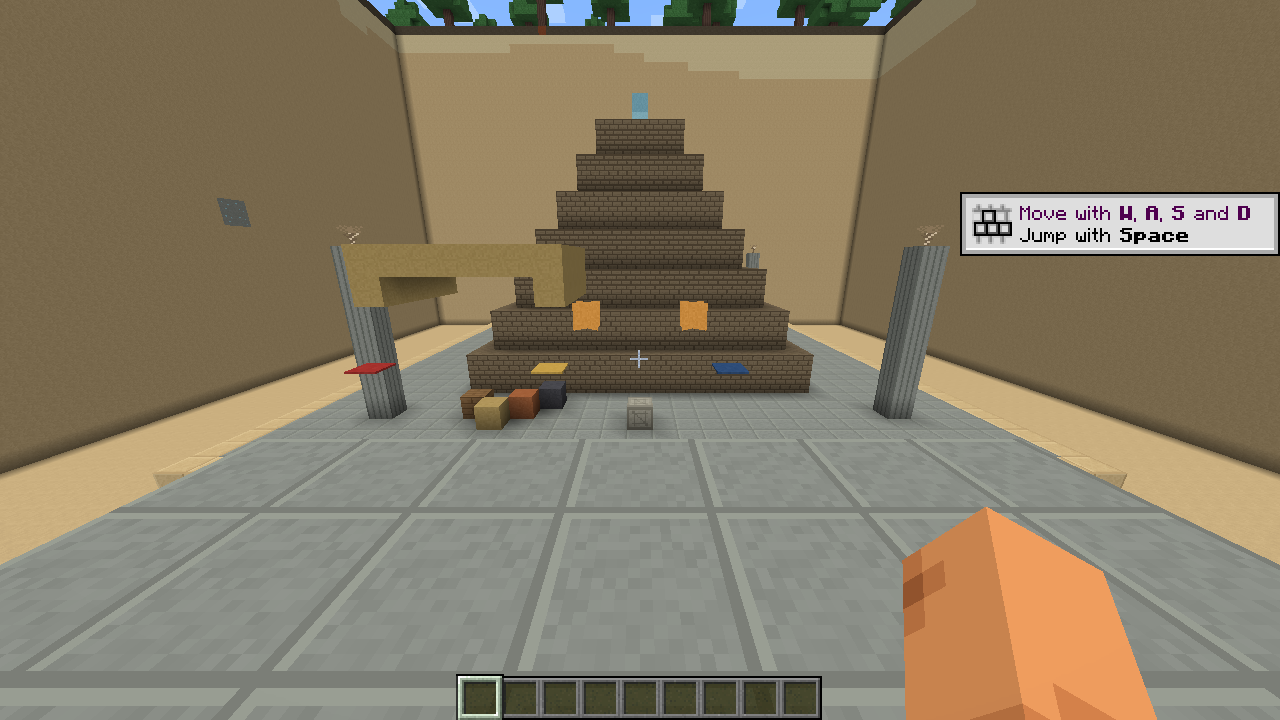
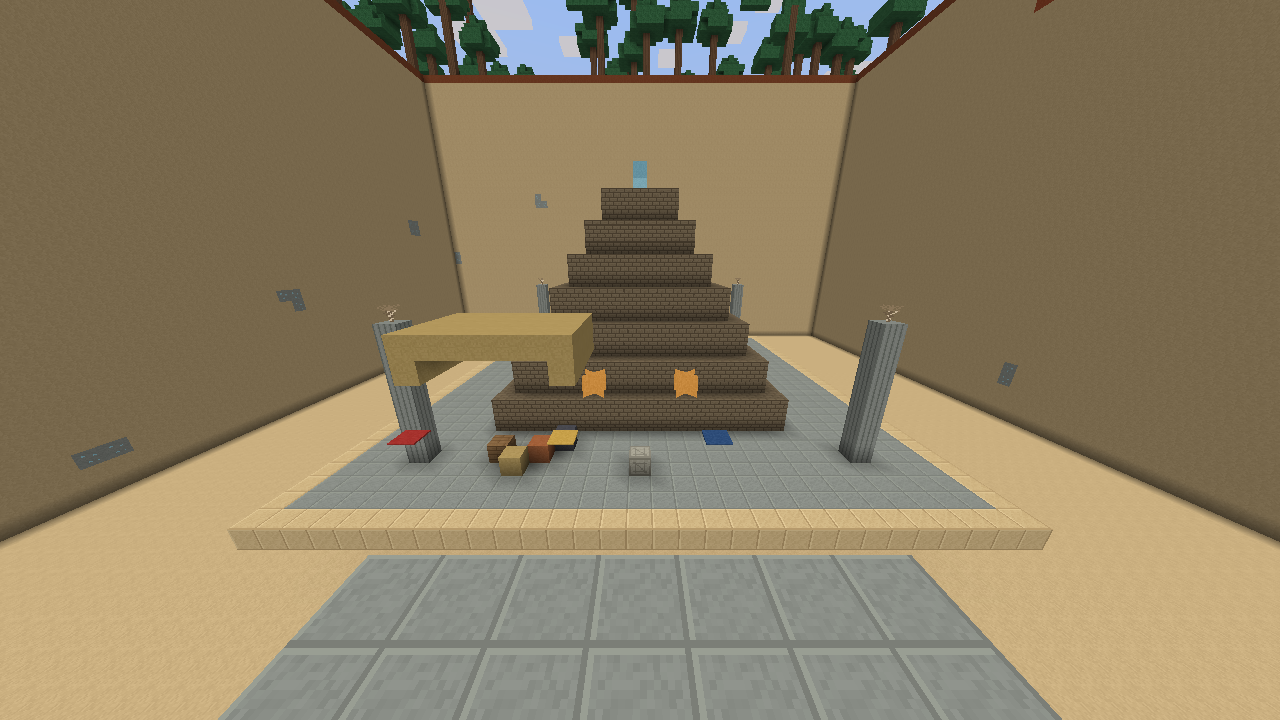
ci(captures): studio flottant a y=200 (fin des parois de terre) et cadrage serre

diff --git a/tools/dev/captures/captures.py b/tools/dev/captures/captures.py
@@ -46,118 +46,124 @@ def cube(x0, y0, z0, x1, y1, z1, nom):
     return [f"fill {x0} {y0} {z0} {x1} {y1} {z1} cambocraft:{nom}"]
 
 
+# Altitude du studio flottant : au-dessus du terrain naturel de cambodia (le monde
+# monte jusqu'a y=319), ce qui supprime les parois de terre qui encombraient le fond.
+Y = 200
+
+
 def scene_portail():
     c = []
-    c += cube(-9, 59, -9, 9, 59, 9, "pierre_du_lotus_polie")
-    for cote in (
-        f"fill -10 59 -10 10 59 -10 cambocraft:pierre_du_lotus_sculptee",
-        f"fill -10 59 10 10 59 10 cambocraft:pierre_du_lotus_sculptee",
-        f"fill -10 59 -10 -10 59 10 cambocraft:pierre_du_lotus_sculptee",
-        f"fill 10 59 -10 10 59 10 cambocraft:pierre_du_lotus_sculptee",
-    ):
-        c += [cote]
-    # Cadre 3x3 en anneau : le coeur occupe le centre, donc on ne pose pas de cadre
-    # sous lui (sinon il le masque completement).
+    # Terrasse : 19x19 de pierre de lotus polie, bordee de pierre sculptee.
+    c += cube(-9, Y, -9, 9, Y, 9, "pierre_du_lotus_polie")
+    c += [f"fill -10 {Y} -10 10 {Y} -10 cambocraft:pierre_du_lotus_sculptee",
+          f"fill -10 {Y} 10 10 {Y} 10 cambocraft:pierre_du_lotus_sculptee",
+          f"fill -10 {Y} -10 -10 {Y} 10 cambocraft:pierre_du_lotus_sculptee",
+          f"fill 10 {Y} -10 10 {Y} 10 cambocraft:pierre_du_lotus_sculptee"]
+    # Portail : cadre 3x3 en anneau (le coeur occupe le centre) surmonte de montants.
     for dx in (-1, 0, 1):
         for dz in (-1, 0, 1):
-            if (dx, dz) == (0, 0):
-                continue
-            c += [bloc(dx, 60, dz, "cadre_du_portail")]
-    c += [bloc(0, 60, 0, "coeur_du_portail")]
-    # Murets de cadre sur les cotes : signale le portail de loin.
+            if (dx, dz) != (0, 0):
+                c += [bloc(dx, Y + 1, dz, "cadre_du_portail")]
+    c += [bloc(0, Y + 1, 0, "coeur_du_portail")]
     for dx, dz in ((-2, -2), (2, -2), (-2, 2), (2, 2)):
-        c += [f"fill {dx} 60 {dz} {dx} 62 {dz} cambocraft:cadre_du_portail"]
+        c += [f"fill {dx} {Y+1} {dz} {dx} {Y+3} {dz} cambocraft:cadre_du_portail"]
+    # Piliers d'angle de lotus couronnes de cristaux.
     for dx, dz in ((-3, -3), (3, -3), (-3, 3), (3, 3)):
-        c += [f"fill {dx} 60 {dz} {dx} 63 {dz} cambocraft:pilier_de_lotus"]
-        c += [bloc(dx, 64, dz, "cristal_de_lotus")]
+        c += [f"fill {dx} {Y+1} {dz} {dx} {Y+4} {dz} cambocraft:pilier_de_lotus"]
+        c += [bloc(dx, Y + 5, dz, "cristal_de_lotus")]
+    # Parterre de lotus, rangee d'hibiscus, lanternes, autel et teleporteur.
     for dx, dz in ((0, -4), (0, 4), (-4, 0), (4, 0), (-5, -5), (5, 5), (-5, 5), (5, -5)):
-        c += [bloc(dx, 60, dz, "lotus_rose" if (dx + dz) % 2 == 0 else "lotus_blanc")]
+        c += [bloc(dx, Y + 1, dz, "lotus_rose" if (dx + dz) % 2 == 0 else "lotus_blanc")]
     for dx in range(-7, 8, 2):
-        c += [bloc(dx, 60, 7, "fleur_d_hibiscus")]
-    c += [bloc(0, 64, -6, "lanterne_de_bambou"), bloc(0, 64, 6, "lanterne_de_bambou")]
-    c += [bloc(-6, 60, -6, "teleporteur_de_lotus"), bloc(6, 60, 6, "autel")]
+        c += [bloc(dx, Y + 1, 7, "fleur_d_hibiscus")]
+    c += [bloc(0, Y + 5, -6, "lanterne_de_bambou"), bloc(0, Y + 5, 6, "lanterne_de_bambou")]
+    c += [bloc(-6, Y + 1, -6, "teleporteur_de_lotus"), bloc(6, Y + 1, 6, "autel")]
     return c
 
 
 def scene_cite():
     c = []
-    c += cube(-14, 59, -14, 14, 59, 14, "pierre_du_lotus_polie")
-    c += cube(-15, 59, -15, 15, 59, -15, "gres_khmer_poli")
-    c += cube(-15, 59, 15, 15, 59, 15, "gres_khmer_poli")
-    c += cube(-15, 59, -15, -15, 59, 15, "gres_khmer_poli")
-    c += cube(15, 59, -15, 15, 59, 15, "gres_khmer_poli")
+    c += cube(-14, Y, -14, 14, Y, 14, "pierre_du_lotus_polie")
+    c += [f"fill -15 {Y} -15 15 {Y} -15 cambocraft:gres_khmer_poli",
+          f"fill -15 {Y} 15 15 {Y} 15 cambocraft:gres_khmer_poli",
+          f"fill -15 {Y} -15 -15 {Y} 15 cambocraft:gres_khmer_poli",
+          f"fill 15 {Y} -15 15 {Y} 15 cambocraft:gres_khmer_poli"]
+    # Prasat a 7 gradins, 2 blocs de haut chacun.
     for etage in range(7):
         d = 8 - etage
-        c += cube(-d, 60 + etage * 2, -d, d, 60 + etage * 2, d, "brique_de_temple")
-        c += cube(-d, 61 + etage * 2, -d, d, 61 + etage * 2, d, "brique_de_temple")
-    c += [bloc(0, 74, 0, "cristal_de_lotus"), bloc(0, 75, 0, "coeur_du_portail")]
+        c += cube(-d, Y + 1 + etage * 2, -d, d, Y + 2 + etage * 2, d, "brique_de_temple")
+    c += [bloc(0, Y + 15, 0, "cristal_de_lotus"), bloc(0, Y + 16, 0, "coeur_du_portail")]
     for dx, dz in ((-11, -11), (11, -11), (-11, 11), (11, 11)):
-        c += [f"fill {dx} 60 {dz} {dx} 66 {dz} cambocraft:pilier_de_lotus"]
-        c += [bloc(dx, 67, dz, "encens")]
-    c += [f"fill -9 66 9 -3 66 13 cambocraft:toit_de_chaume",
-          f"fill -9 65 9 -9 65 13 cambocraft:toit_de_chaume",
-          f"fill -3 65 9 -3 65 13 cambocraft:toit_de_chaume"]
-    c += [bloc(-7, 60, 11, "etal_de_marche"), bloc(-5, 60, 11, "jarre"),
-          bloc(-6, 60, 12, "panier"), bloc(-4, 60, 10, "marmite"),
-          bloc(4, 60, -9, "tambour"), bloc(6, 60, -9, "gong"),
-          bloc(-4, 60, -9, "lion_de_pierre"), bloc(4, 60, -11, "visage_de_pierre"),
-          bloc(0, 60, 12, "statue_de_pierre"), bloc(0, 60, -12, "bas_relief")]
+        c += [f"fill {dx} {Y+1} {dz} {dx} {Y+7} {dz} cambocraft:pilier_de_lotus"]
+        c += [bloc(dx, Y + 8, dz, "encens")]
+    # Halle de marche au toit de chaume.
+    c += [f"fill -9 {Y+7} 9 -3 {Y+7} 13 cambocraft:toit_de_chaume",
+          f"fill -9 {Y+6} 9 -9 {Y+6} 13 cambocraft:toit_de_chaume",
+          f"fill -3 {Y+6} 9 -3 {Y+6} 13 cambocraft:toit_de_chaume"]
+    c += [bloc(-7, Y + 1, 11, "etal_de_marche"), bloc(-5, Y + 1, 11, "jarre"),
+          bloc(-6, Y + 1, 12, "panier"), bloc(-4, Y + 1, 10, "marmite"),
+          bloc(4, Y + 1, -9, "tambour"), bloc(6, Y + 1, -9, "gong"),
+          bloc(-4, Y + 1, -9, "lion_de_pierre"), bloc(4, Y + 1, -11, "visage_de_pierre"),
+          bloc(0, Y + 1, 12, "statue_de_pierre"), bloc(0, Y + 1, -12, "bas_relief")]
     for i, b in enumerate(("banniere_rouge", "banniere_or", "banniere_bleue")):
-        c += [bloc(-9 + i * 6, 63, 14, b)]
-    c += [bloc(-2, 64, 12, "tissu_suspendu"), bloc(2, 64, 12, "tissu_suspendu")]
-    c += [f"fill -3 60 3 3 60 5 cambocraft:tapis_de_soie_krama",
-          f"fill -3 60 -5 3 60 -3 cambocraft:natte_de_jonc"]
+        c += [bloc(-9 + i * 6, Y + 4, 14, b)]
+    c += [bloc(-2, Y + 5, 12, "tissu_suspendu"), bloc(2, Y + 5, 12, "tissu_suspendu")]
+    c += [f"fill -3 {Y+1} 3 3 {Y+1} 5 cambocraft:tapis_de_soie_krama",
+          f"fill -3 {Y+1} -5 3 {Y+1} -3 cambocraft:natte_de_jonc"]
     return c
 
 
 def scene_interieur():
     c = []
-    c += cube(-8, 59, -8, 8, 59, 8, "teck_planks")
-    c += [f"fill -8 60 -8 8 64 -8 cambocraft:brique_de_temple",
-          f"fill -8 60 8 8 64 8 cambocraft:brique_de_temple",
-          f"fill -8 60 -8 -8 64 8 cambocraft:brique_de_temple",
-          f"fill 8 60 -8 8 64 8 cambocraft:brique_de_temple",
-          f"fill -8 65 -8 8 65 8 cambocraft:teck_planks"]
+    c += cube(-8, Y, -8, 8, Y, 8, "teck_planks")
+    c += [f"fill -8 {Y+1} -8 8 {Y+5} -8 cambocraft:brique_de_temple",
+          f"fill -8 {Y+1} 8 8 {Y+5} 8 cambocraft:brique_de_temple",
+          f"fill -8 {Y+1} -8 -8 {Y+5} 8 cambocraft:brique_de_temple",
+          f"fill 8 {Y+1} -8 8 {Y+5} 8 cambocraft:brique_de_temple",
+          f"fill -8 {Y+6} -8 8 {Y+6} 8 cambocraft:teck_planks"]
     for x in (-3, 3):
-        c += [f"fill {x} 61 -8 {x} 63 -8 cambocraft:vitrail_de_temple"]
-        c += [f"fill {x} 61 8 {x} 63 8 cambocraft:vitrail_de_temple"]
+        c += [f"fill {x} {Y+2} -8 {x} {Y+4} -8 cambocraft:vitrail_de_temple",
+              f"fill {x} {Y+2} 8 {x} {Y+4} 8 cambocraft:vitrail_de_temple"]
     for z in (-3, 3):
-        c += [f"fill 8 61 {z} 8 63 {z} cambocraft:vitrail_de_temple"]
-    c += [bloc(-5, 60, -5, "metier_a_tisser"), bloc(-5, 61, -5, "tissu_suspendu"),
-          bloc(-3, 60, -5, "cuve_de_soie"), bloc(-1, 60, -5, "tour_de_poterie"),
-          bloc(1, 60, -5, "table_de_forge"), bloc(3, 60, -5, "four_de_forge"),
-          bloc(5, 60, -5, "creuset_de_fusion"), bloc(3, 60, -3, "atelier_de_sculpture"),
-          bloc(-5, 60, 5, "jarre"), bloc(-4, 60, 5, "panier"),
-          bloc(5, 60, 5, "marmite"), bloc(5, 60, 3, "encens"),
-          bloc(0, 60, 6, "tapis_de_soie_krama"), bloc(2, 60, 6, "natte_de_jonc")]
+        c += [f"fill 8 {Y+2} {z} 8 {Y+4} {z} cambocraft:vitrail_de_temple"]
+    c += [bloc(-5, Y + 1, -5, "metier_a_tisser"), bloc(-5, Y + 2, -5, "tissu_suspendu"),
+          bloc(-3, Y + 1, -5, "cuve_de_soie"), bloc(-1, Y + 1, -5, "tour_de_poterie"),
+          bloc(1, Y + 1, -5, "table_de_forge"), bloc(3, Y + 1, -5, "four_de_forge"),
+          bloc(5, Y + 1, -5, "creuset_de_fusion"), bloc(3, Y + 1, -3, "atelier_de_sculpture"),
+          bloc(-5, Y + 1, 5, "jarre"), bloc(-4, Y + 1, 5, "panier"),
+          bloc(5, Y + 1, 5, "marmite"), bloc(5, Y + 1, 3, "encens"),
+          bloc(0, Y + 1, 6, "tapis_de_soie_krama"), bloc(2, Y + 1, 6, "natte_de_jonc")]
     for x in (-6, 0, 6):
-        c += [bloc(x, 63, 7, "lanterne_de_bambou")]
+        c += [bloc(x, Y + 4, 7, "lanterne_de_bambou")]
     return c
 
 
 def scene_vegetation():
     c = []
-    for i, niveau in enumerate((59, 61, 63)):
+    # Rizieres en terrasses : trois gradins de boue, riz sur les bords, eau devant.
+    for i, niveau in enumerate((Y, Y + 2, Y + 4)):
         z0 = i * 6 - 6
-        c += [f"fill -12 {niveau} {z0} 12 {niveau} {z0 + 4} cambocraft:boue_de_riziaire"]
-        c += [f"fill -12 {niveau + 1} {z0} 12 {niveau + 1} {z0} cambocraft:riz_sauvage"]
-        c += [f"fill -12 {niveau + 1} {z0 + 4} 12 {niveau + 1} {z0 + 4} cambocraft:riz_empile"]
-        c += [f"fill -12 {niveau} {z0 + 5} 12 {niveau} {z0 + 5} water"]
-    c += [bloc(-6, 65, 8, "lotus_rose"), bloc(-4, 65, 8, "lotus_blanc"),
-          bloc(2, 65, 8, "fleur_de_lotus"), bloc(4, 65, 8, "feuille_de_lotus")]
+        c += [f"fill -12 {niveau} {z0} 12 {niveau} {z0 + 4} cambocraft:boue_de_riziaire",
+              f"fill -12 {niveau+1} {z0} 12 {niveau+1} {z0} cambocraft:riz_sauvage",
+              f"fill -12 {niveau+1} {z0+4} 12 {niveau+1} {z0+4} cambocraft:riz_empile",
+              f"fill -12 {niveau} {z0+5} 12 {niveau} {z0+5} water"]
+    c += [bloc(-6, Y + 7, 8, "lotus_rose"), bloc(-4, Y + 7, 8, "lotus_blanc"),
+          bloc(2, Y + 7, 8, "fleur_de_lotus"), bloc(4, Y + 7, 8, "feuille_de_lotus")]
     for x in range(-12, 13, 3):
-        c += [bloc(x, 65, 12, "paille_de_riz" if x % 2 == 0 else "orchidee_khmer")]
-    c += [bloc(-10, 65, -8, "paletuvier_sapling"), bloc(10, 65, -8, "palmier_a_sucre_sapling")]
-    c += [f"fill -12 64 -9 12 64 -9 cambocraft:laterite"]
+        c += [bloc(x, Y + 7, 12, "paille_de_riz" if x % 2 == 0 else "orchidee_khmer")]
+    c += [bloc(-10, Y + 7, -8, "paletuvier_sapling"), bloc(10, Y + 7, -8, "palmier_a_sucre_sapling")]
+    c += [f"fill -12 {Y+6} -9 12 {Y+6} -9 cambocraft:laterite"]
     return c
 
 
 SCENES = {
     # nom : (constructeur, position du joueur, rotation (yaw, pitch), nom de fichier)
-    "portail": (scene_portail, (0.5, 64.0, 17.0), (180.0, 20.0), "portail-du-lotus"),
-    "cite": (scene_cite, (0.5, 68.0, 25.0), (180.0, 18.0), "cite-khmere"),
-    "interieur": (scene_interieur, (1.5, 62.5, 6.5), (194.0, 12.0), "atelier"),
-    "vegetation": (scene_vegetation, (0.5, 73.0, 22.0), (180.0, 30.0), "rizieres"),
+    # Les scenes sont baties sur le studio flottant a Y=200 : la camera se place
+    # a Y+4 environ, en spectateur (aucune chute possible).
+    "portail": (scene_portail, (0.5, Y + 4.0, 13.0), (180.0, 12.0), "portail-du-lotus"),
+    "cite": (scene_cite, (0.5, Y + 6.0, 20.0), (180.0, 10.0), "cite-khmere"),
+    "interieur": (scene_interieur, (0.5, Y + 4.0, 7.0), (180.0, 8.0), "atelier"),
+    "vegetation": (scene_vegetation, (0.5, Y + 9.0, 18.0), (180.0, 16.0), "rizieres"),
 }
 
 
@@ -424,13 +430,13 @@ def main() -> int:
     time.sleep(4)
     # Vol stationnaire : sans cela, le joueur tombe dans le vide pendant la construction
     # et la capture ne montre que du noir.
-    commande("execute in cambocraft:cambodia run tp @a 0 100 0 0 0")
+    commande(f"execute in cambocraft:cambodia run tp @a 0 {Y + 30} 0 0 0")
 
     # --- verification de sanite : un bloc d'or de 3x3, camera dessus, regard vers le bas ---
     print("== verification de sanite du rendu ==")
     avant = len(sortie_serveur.lignes)
-    commande("execute in cambocraft:cambodia run fill -2 70 -2 2 70 2 minecraft:gold_block")
-    commande("execute in cambocraft:cambodia run tp @a 0 76 0 0 85")
+    commande(f"execute in cambocraft:cambodia run fill -2 {Y+10} -2 2 {Y+10} 2 minecraft:gold_block")
+    commande(f"execute in cambocraft:cambodia run tp @a 0 {Y+16} 0 0 85")
     commande("execute in cambocraft:cambodia run data get entity Cambocraft Pos")
     time.sleep(5)
     with sortie_serveur.verrou:
@@ -456,19 +462,17 @@ def main() -> int:
             continue
         constructeur, position, rotation, fichier = SCENES[nom]
         print(f"== scene {nom} ({fichier}) ==")
-        # Studio aerien : on degage un volume bien plus large que la scene pour que
-        # les parois de terre du terrain naturel n'apparaissent pas dans le champ.
-        # /fill est limite a 32 768 blocs : 65x6x65 = 25 350 blocs par tranche.
-        for y0 in range(56, 152, 6):
+        # Nettoyage du studio : la scene precedente doit disparaitre. /fill est limite
+        # a 32 768 blocs par commande : 65x6x65 = 25 350 blocs par tranche.
+        for y0 in range(Y - 2, Y + 32, 6):
             commande(f"execute in cambocraft:cambodia run fill -32 {y0} -32 32 {y0 + 5} 32 air")
         time.sleep(3)
         for cmd in constructeur():
             commande(f"execute in cambocraft:cambodia run {cmd}")
         time.sleep(3)
         x, y, z = position
-        # Filet de securite : une plateforme sous la camera, pour ne jamais tomber.
-        commande(f"execute in cambocraft:cambodia run fill {int(x)-3} {int(y)-3} {int(z)-3} "
-                 f"{int(x)+3} {int(y)-3} {int(z)+3} cambocraft:pierre_du_lotus_polie")
+        # Aucune plateforme de secours : le joueur est en spectateur, il ne tombe pas,
+        # et une plateforme au premier plan gachait le cadrage.
         commande(f"execute in cambocraft:cambodia run tp @a {x} {y} {z} {rotation[0]} {rotation[1]}")
         # Vol en creatif maintenu : double saut simule par l'API de vol.
         commande(f"execute in cambocraft:cambodia run tp @a {x} {y} {z} {rotation[0]} {rotation[1]}")
